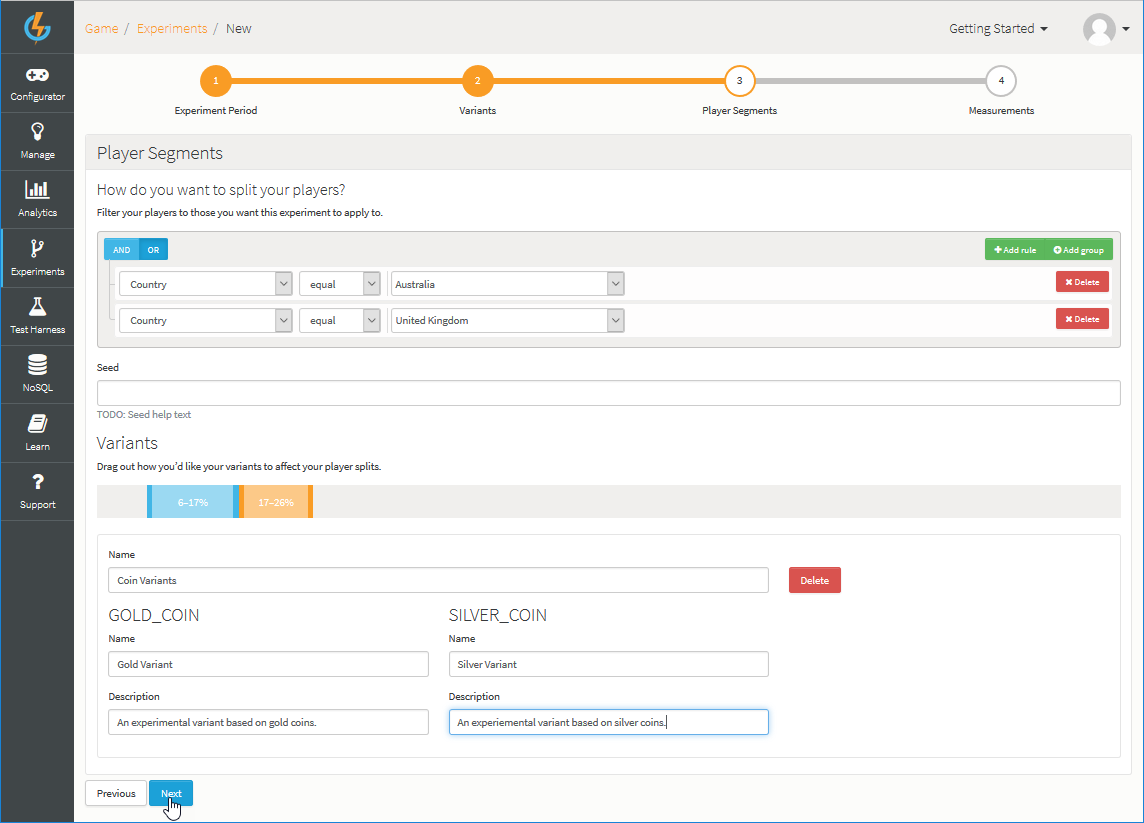
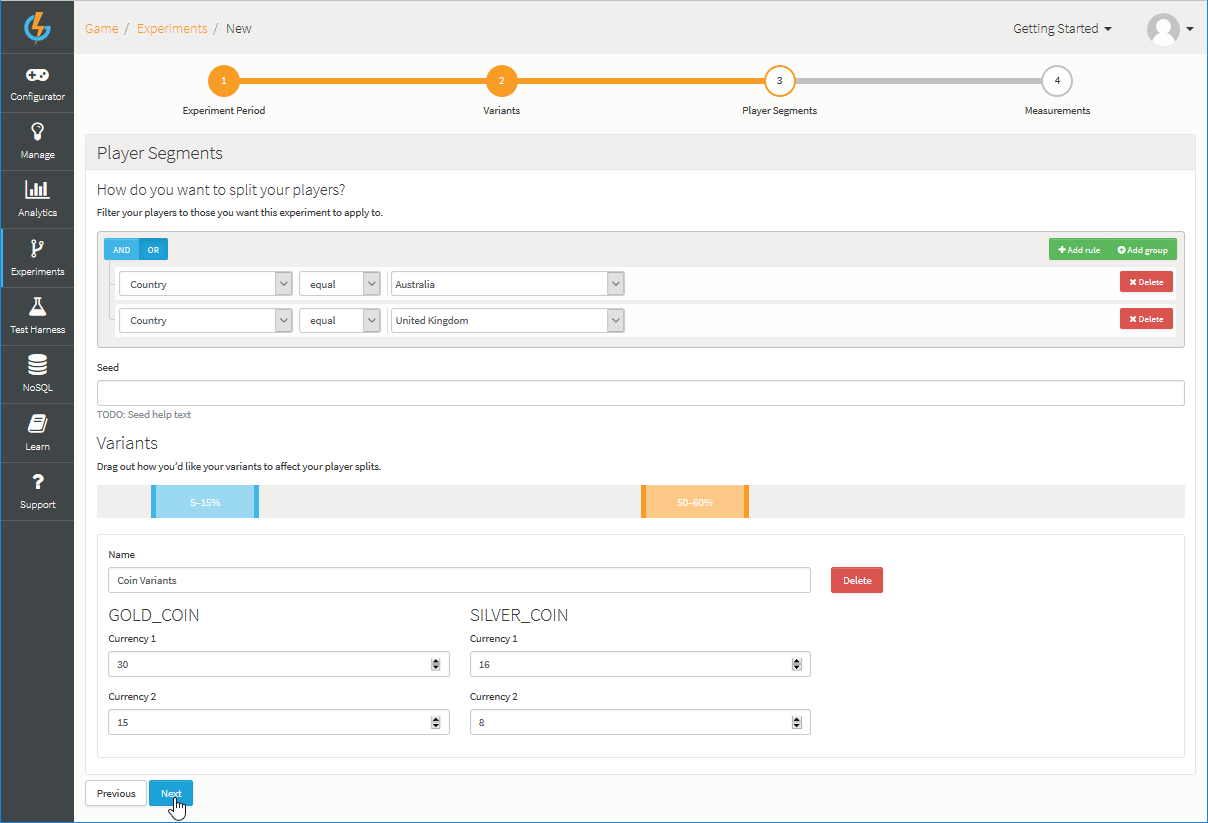
NEW UI Updates

diff --git a/MARKDOWN/Documentation/Experiments/README.md b/MARKDOWN/Documentation/Experiments/README.md
@@ -5,7 +5,7 @@ src: /Documentation/Experiments/README.md
 
 # Experiments
 
-Experiments allow users to A/B test certain configuration changes on a selective range of Players within the game.  For example, a user could experiment with the costs of Virtual Goods for a small range of Players on the game for a specified period of time.  The costs could be increased or decreased marginally or drastically, to see how Players would respond to these changes.  This allows the user to fine-tune their configuration to make their Players more responsive to it.
+You can create *Experiments* to A/B test certain configuration changes on a selective range of Players within your game. For example, you could experiment with the costs of Virtual Goods for a small range of Players on your game for a specified period of time. You might increase or decrease the costs of some Virtual Goods to see how Players would respond to these different degrees of cost change. By reviewing the outcome of such experimental adjustments in Virtual Goods costs, you will be very well-placed to fine-tune your game configuration to make Players more responsive to and more engaged with your game.
 
 ## Creating Experiments
 
@@ -17,11 +17,11 @@ This is the page where you can create and manage your Experiments Screen:
 * There are three panels for the different stages of an Experiment - *Upcoming*, *Running*, and *Completed*.
 * As your Experiments are created in *Upcoming* and are scheduled to run, then start *Running*, and finally are *Completed*, they move through these three stages.
 
-![](img/Experiments/2.png)
-
 ## Adding and Configuring an Experiment
 
-*1.* On the *Upcoming Experiments* panel, click to *Add* a new Experiment. The page adjusts for the step 1 for creating a new Experiment - *Experiment Period*:
+When you click to *Add* an upcoming experiment, you are taken through a series of four steps to build the experiment's configuration:
+
+*1.* On the *Upcoming Experiments* panel, click to *Add* a new Experiment. The page adjusts step 1 - *Experiment Period*:
 
 ![](img/Experiments/8.png)
 
@@ -29,20 +29,33 @@ Use this first step to enter:
 * *Experiment Name* - The Name field is a mandatory field used to describe the Experiment but does not uniquely identify it.
 * *Start and End dates* - A start date and time and an end date and time to define the period the Experiment will run for.
 
-*2.* Click *Next*. You are taken to step 2 for creating an Experiment - *Variants*:
+*2.* Click *Next*. You are taken to step 2 - *Variants*:
 
 ![](img/Experiments/9.png)
 
-Use this second step to select whatyou want to vary for the purpose of the Experiment:
-* In this example, we've added *GOLD_COIN* and *SILVER_COIN* as experimental variants.
+Use this second step to select what you want to vary for the purpose of the Experiment:
+* In this example, we've added *GOLD_COIN* and *SILVER_COIN* Virtual Goods as experimental variants.
+* For both, we've selected the *Currency 1* and *Currency 2* fields.
 
-*3.* Click *Next*. You are taken to step 3 for creating an Experiment - *Player Segments*:
+*3.* Click *Next*. You are taken to step 3 - *Player Segments*:
 
 ![](img/Experiments/10.png)
 
-<< NOT CLEAR ON THESE SETTINGS? >>
+You can use this step to configure several aspects of the Experiment:
+* *Player Segments* - Build a filter rule that will determine which players will form the overall group from which the set of players subjected to the Experiment are chosen:
+  * In this example, players from Australia or the United Kingdom will form the overall group of players for the Experiment.
+* *Seed* - This field is optional. You can use it to tighten the degree of randomization of choice of players to which the experimental variants will be applied:
+  * If you supply it, the value is used as part of the hashing calculation when we determine to which percentile each player is randomly assigned. The longer and more unique the value is, the higher the likelihood that the randomization of the Player and the percentile is. For example, If you want to run two Experiments and be sure that the same Player for both the 1st and 2nd Experiment has the same percentile, you should set this Seed hash value to be the same on each Experiment.
+* *Variants* - There are several parts to this section:
+  * Add percentile ranges from which the player participants for the Experiment will be chosen. A hashing calculation is applied to the overall group of players to distribute them randomly. The Experiment will then be applied only to those players that are placed in any of the percentile ranges you add here for the Experiment.
+    * In this example, we've added two percentile ranges.
+  * Give the *Variants* a name, which will be visible only to those players to which the Experiment is applied.
+  * Set the alternative values for the Variant fields we selected for each of the Variants we added to the Experiment in step 2.
+    * In this example, we increase both the Gold and Silver coin values for Currencies 1 and 2.
 
-*4.* Click *Next*. You are taken to step 4 for creating and Experiment - *Measurements*:
+These combined settings are designed to ensure that when your Experiment is run, the set of players to which the Experiment is applied is a randomly chosen set. Any behavioral changes observed in the players subjected to the Experiment with respect to the Variants - here Virtual Goods whose currency values have been increased - are therefore less likely to be biased and unrepresentative. This means, in turn, that any decisions you make for *actual changes* you go on to make to your game configuration and which are based on experimental outcomes are much more likely to be predictive of the general behavior of your full game player pool in reaction to these actual changes.
+
+*4.* Click *Next*. You are taken to step 4 - *Measurements*:
 
 ![](img/Experiments/11.png)
 
